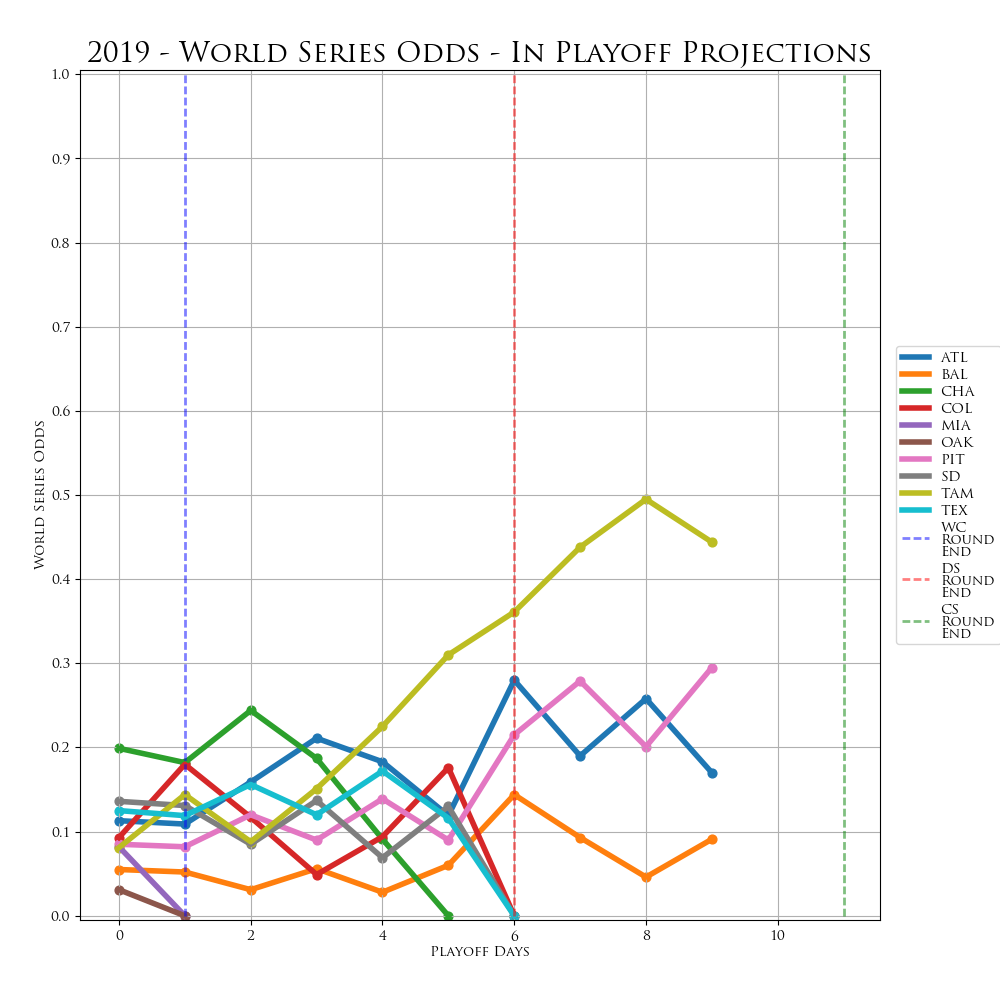
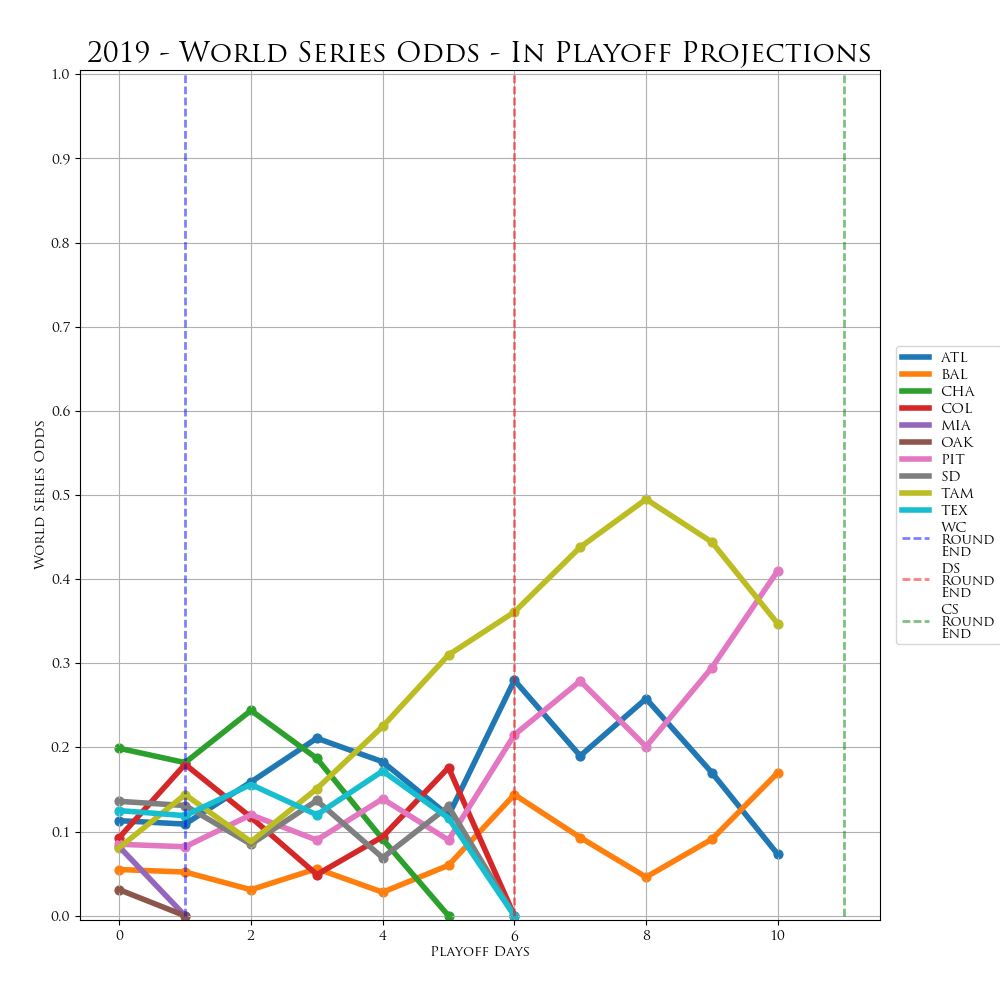
playoff NSBL update (Oct 10, 2019)

diff --git a/Tables/in_playoff_bracket.html b/Tables/in_playoff_bracket.html
@@ -255,7 +255,7 @@ c+"</h1><div>"+("function"===typeof e.message?e.message(b,h,e):e.message)+"</div
 </script>
 <script>
 		$(document).ready(function() {
-			$("#table").DataTable({"scroller":true,"dom":"Bfrtip","sScrollX":"100%","scrollY":"70vh","buttons":["copy","csv","json","print"],"paging":true,"bPaginate":false,"bLengthChange":false,"deferRender":true,"data":[["ALCS","Baltimore Orioles","Tampa Bay Rays","1","2","21.7%","","","","8.0%","13.7%"],["ALCS","Tampa Bay Rays","Baltimore Orioles","2","1","78.3%","","","32.3%","27.9%","18.0%"],["ALDS1","Baltimore Orioles","Texas Rangers","3","2","100.0%","","","100.0%","",""],["ALDS1","Texas Rangers","Baltimore Orioles","2","3","0.0%","","","","",""],["ALDS2","Chicago White Sox","Tampa Bay Rays","1","3","0.0%","","","","",""],["ALDS2","Tampa Bay Rays","Chicago White Sox","3","1","100.0%","","100.0%","","",""],["ALWC","Oakland Athletics","Tampa Bay Rays","0","1","0.0%","","","","",""],["ALWC","Tampa Bay Rays","Oakland Athletics","1","0","100.0%","","","","",""],["NLCS","Atlanta Braves","Pittsburgh Pirates","1","2","34.4%","","","","14.1%","20.3%"],["NLCS","Pittsburgh Pirates","Atlanta Braves","2","1","65.6%","","","23.0%","23.9%","18.7%"],["NLDS1","Pittsburgh Pirates","San Diego Padres","3","2","100.0%","","","100.0%","",""],["NLDS1","San Diego Padres","Pittsburgh Pirates","2","3","0.0%","","","","",""],["NLDS2","Atlanta Braves","Colorado Rockies","3","2","100.0%","","","100.0%","",""],["NLDS2","Colorado Rockies","Atlanta Braves","2","3","0.0%","","","","",""],["NLWC","Colorado Rockies","Miami Marlins","1","0","100.0%","","","","",""],["NLWC","Miami Marlins","Colorado Rockies","0","1","0.0%","","","","",""]],"sScrollXInner":"100%","columns":[{"title":"Series ID"},{"title":"Team Name"},{"title":"Opponent Name"},{"title":"Series Wins"},{"title":"Series Losses"},{"title":"Advance Probability"},{"title":"Win in 3"},{"title":"Win in 4"},{"title":"Win in 5"},{"title":"Win in 6"},{"title":"Win in 7"}],"iDisplayLength":-1});
+			$("#table").DataTable({"scroller":true,"dom":"Bfrtip","sScrollX":"100%","scrollY":"70vh","buttons":["copy","csv","json","print"],"paging":true,"bPaginate":false,"bLengthChange":false,"deferRender":true,"data":[["ALCS","Baltimore Orioles","Tampa Bay Rays","2","2","39.8%","","","","18.6%","21.2%"],["ALCS","Tampa Bay Rays","Baltimore Orioles","2","2","60.2%","","","","32.3%","27.9%"],["ALDS1","Baltimore Orioles","Texas Rangers","3","2","100.0%","","","100.0%","",""],["ALDS1","Texas Rangers","Baltimore Orioles","2","3","0.0%","","","","",""],["ALDS2","Chicago White Sox","Tampa Bay Rays","1","3","0.0%","","","","",""],["ALDS2","Tampa Bay Rays","Chicago White Sox","3","1","100.0%","","100.0%","","",""],["ALWC","Oakland Athletics","Tampa Bay Rays","0","1","0.0%","","","","",""],["ALWC","Tampa Bay Rays","Oakland Athletics","1","0","100.0%","","","","",""],["NLCS","Atlanta Braves","Pittsburgh Pirates","1","3","14.1%","","","","","14.1%"],["NLCS","Pittsburgh Pirates","Atlanta Braves","3","1","85.9%","","","48.0%","25.0%","13.0%"],["NLDS1","Pittsburgh Pirates","San Diego Padres","3","2","100.0%","","","100.0%","",""],["NLDS1","San Diego Padres","Pittsburgh Pirates","2","3","0.0%","","","","",""],["NLDS2","Atlanta Braves","Colorado Rockies","3","2","100.0%","","","100.0%","",""],["NLDS2","Colorado Rockies","Atlanta Braves","2","3","0.0%","","","","",""],["NLWC","Colorado Rockies","Miami Marlins","1","0","100.0%","","","","",""],["NLWC","Miami Marlins","Colorado Rockies","0","1","0.0%","","","","",""]],"sScrollXInner":"100%","columns":[{"title":"Series ID"},{"title":"Team Name"},{"title":"Opponent Name"},{"title":"Series Wins"},{"title":"Series Losses"},{"title":"Advance Probability"},{"title":"Win in 3"},{"title":"Win in 4"},{"title":"Win in 5"},{"title":"Win in 6"},{"title":"Win in 7"}],"iDisplayLength":-1});
 		});
 	</script>
 <style>

diff --git a/Tables/in_playoff_probabilities.html b/Tables/in_playoff_probabilities.html
@@ -227,7 +227,7 @@ c+"</h1><div>"+("function"===typeof e.message?e.message(b,h,e):e.message)+"</div
 </script>
 <script>
 		$(document).ready(function() {
-			$("#table").DataTable({"dom":"Bfrtip","sScrollX":"100%","scrollY":"70vh","buttons":["copy","csv","json","print"],"paging":true,"lengthMenu":[[-1,10,25,50],["All",10,25,50]],"data":[["Atlanta Braves","100.0%","0.0%","","100.0%","100.0%","34.4%","17.0%"],["Baltimore Orioles","100.0%","0.0%","","100.0%","100.0%","21.7%","9.1%"],["Chicago White Sox","100.0%","0.0%","","100.0%","0.0%","0.0%","0.0%"],["Colorado Rockies","0.0%","100.0%","100.0%","100.0%","0.0%","0.0%","0.0%"],["Miami Marlins","0.0%","100.0%","0.0%","0.0%","0.0%","0.0%","0.0%"],["Oakland Athletics","0.0%","100.0%","0.0%","0.0%","0.0%","0.0%","0.0%"],["Pittsburgh Pirates","100.0%","0.0%","","100.0%","100.0%","65.6%","29.5%"],["San Diego Padres","100.0%","0.0%","","100.0%","0.0%","0.0%","0.0%"],["Tampa Bay Rays","0.0%","100.0%","100.0%","100.0%","100.0%","78.3%","44.4%"],["Texas Rangers","100.0%","0.0%","","100.0%","0.0%","0.0%","0.0%"]],"sScrollXInner":"100%","columns":[{"title":"Team Name"},{"title":"Win Div"},{"title":"Make Wild Card"},{"title":"Win Wild Card"},{"title":"Make LDS"},{"title":"Make LCS"},{"title":"Make WS"},{"title":"Win WS"}],"iDisplayLength":-1});
+			$("#table").DataTable({"dom":"Bfrtip","sScrollX":"100%","scrollY":"70vh","buttons":["copy","csv","json","print"],"paging":true,"lengthMenu":[[-1,10,25,50],["All",10,25,50]],"data":[["Atlanta Braves","100.0%","0.0%","","100.0%","100.0%","14.1%","7.3%"],["Baltimore Orioles","100.0%","0.0%","","100.0%","100.0%","39.8%","17.0%"],["Chicago White Sox","100.0%","0.0%","","100.0%","0.0%","0.0%","0.0%"],["Colorado Rockies","0.0%","100.0%","100.0%","100.0%","0.0%","0.0%","0.0%"],["Miami Marlins","0.0%","100.0%","0.0%","0.0%","0.0%","0.0%","0.0%"],["Oakland Athletics","0.0%","100.0%","0.0%","0.0%","0.0%","0.0%","0.0%"],["Pittsburgh Pirates","100.0%","0.0%","","100.0%","100.0%","85.9%","41.0%"],["San Diego Padres","100.0%","0.0%","","100.0%","0.0%","0.0%","0.0%"],["Tampa Bay Rays","0.0%","100.0%","100.0%","100.0%","100.0%","60.2%","34.7%"],["Texas Rangers","100.0%","0.0%","","100.0%","0.0%","0.0%","0.0%"]],"sScrollXInner":"100%","columns":[{"title":"Team Name"},{"title":"Win Div"},{"title":"Make Wild Card"},{"title":"Win Wild Card"},{"title":"Make LDS"},{"title":"Make LCS"},{"title":"Make WS"},{"title":"Win WS"}],"iDisplayLength":-1});
 		});
 	</script>
 <style>
